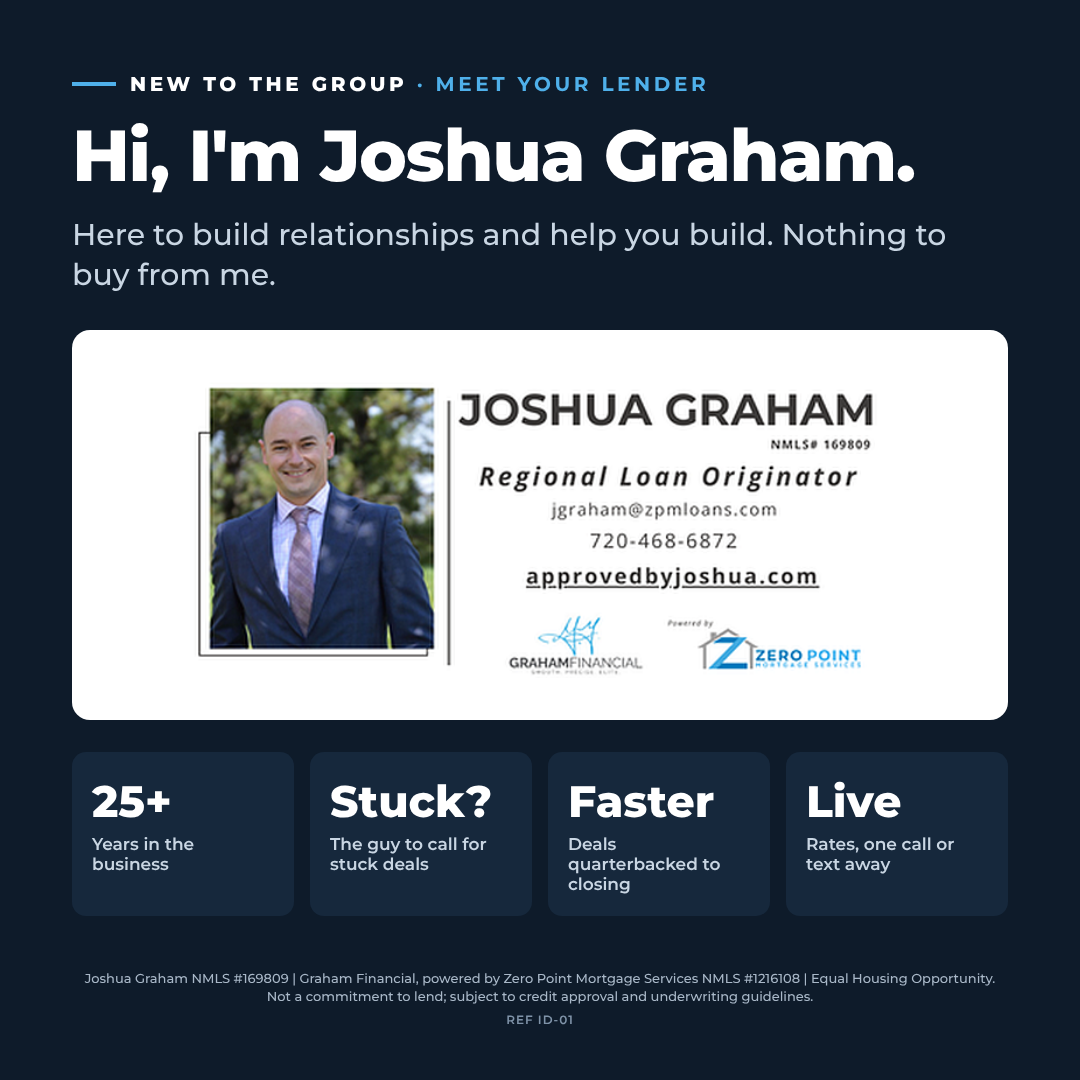
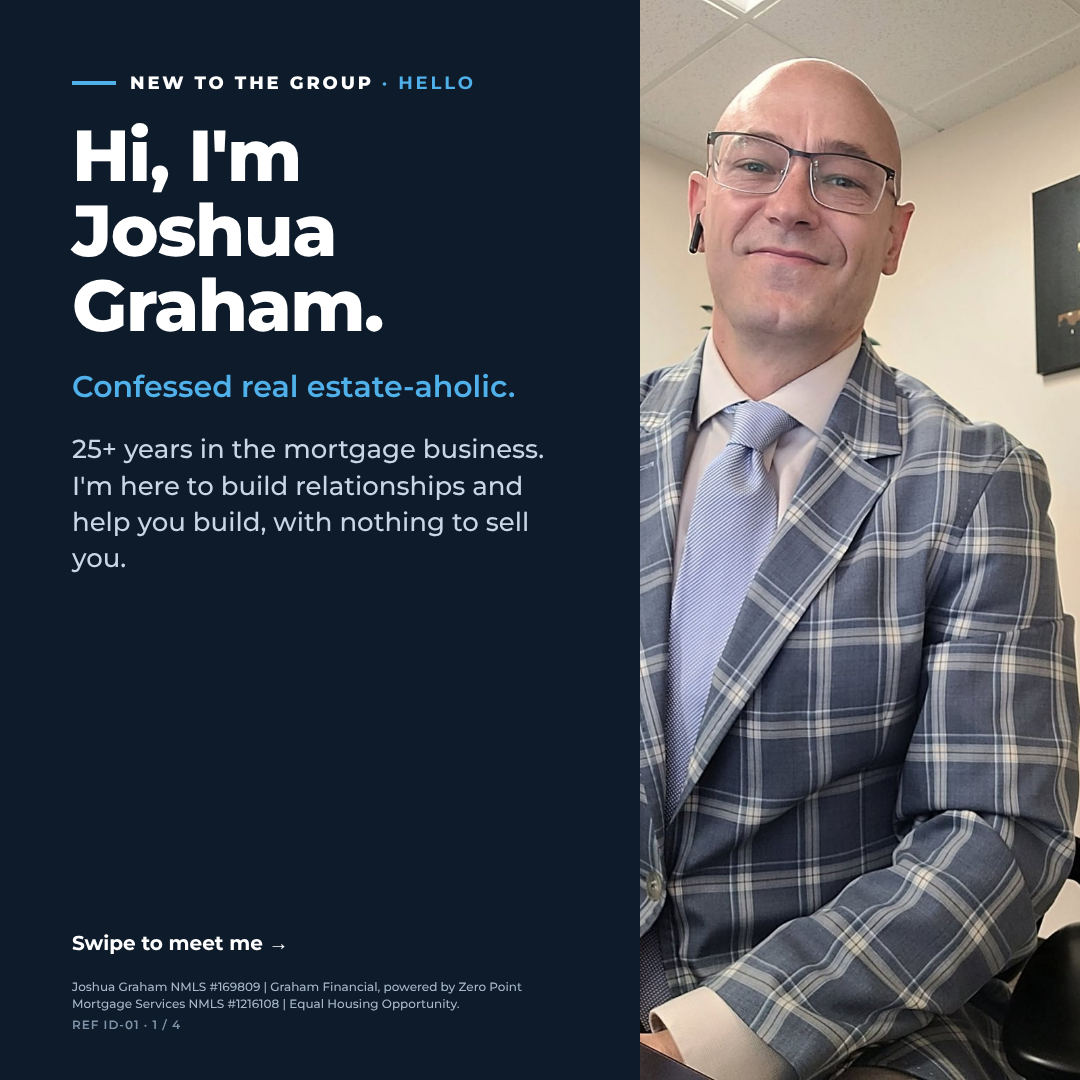
Save point: ID-01 becomes 4-slide photo carousel; copy adds real estate-aholic, 2-yard line, classes taught
Claude-Session: https://claude.ai/code/session_01HF5EFoWpB6dZDERsWsq2kx

diff --git a/src/smart-money/SmartMoney.jsx b/src/smart-money/SmartMoney.jsx
@@ -190,6 +190,10 @@ function Library({ selected, setSelected }) {
         <div style={{ display: "grid", gridTemplateColumns: "repeat(auto-fit, minmax(min(100%, 280px), 1fr))", gap: 20, alignItems: "start" }}>
           <div style={{ display: "flex", flexDirection: "column", gap: 12 }}>
             <Flyer card={card} />
+            {card.slides && <div style={{ display: "grid", gridTemplateColumns: "repeat(4, minmax(0, 1fr))", gap: 8 }}>
+              {card.slides.map((src, i) => <a key={src} href={src} download={`${card.ref}-${i + 1}.png`} title={`Download slide ${i + 1}`}><img src={src} alt={`Slide ${i + 1}`} style={{ width: "100%", borderRadius: 6, border: `1px solid ${C.line}`, display: "block" }} /></a>)}
+            </div>}
+            {card.slides && <div style={{ fontSize: 12, color: C.muted }}>Carousel: {card.slides.length} slides. Tap a slide to download it.</div>}
             <div style={{ fontSize: 13 }}><b>Highlights:</b> {card.highlights.join(" · ")}</div>
             <div style={{ fontSize: 13, background: C.warnBg, borderRadius: 8, padding: 10 }}>
               <b>Internal only</b> · Lender: {card.lender}{card.notes ? ` · ${card.notes}` : ""}
